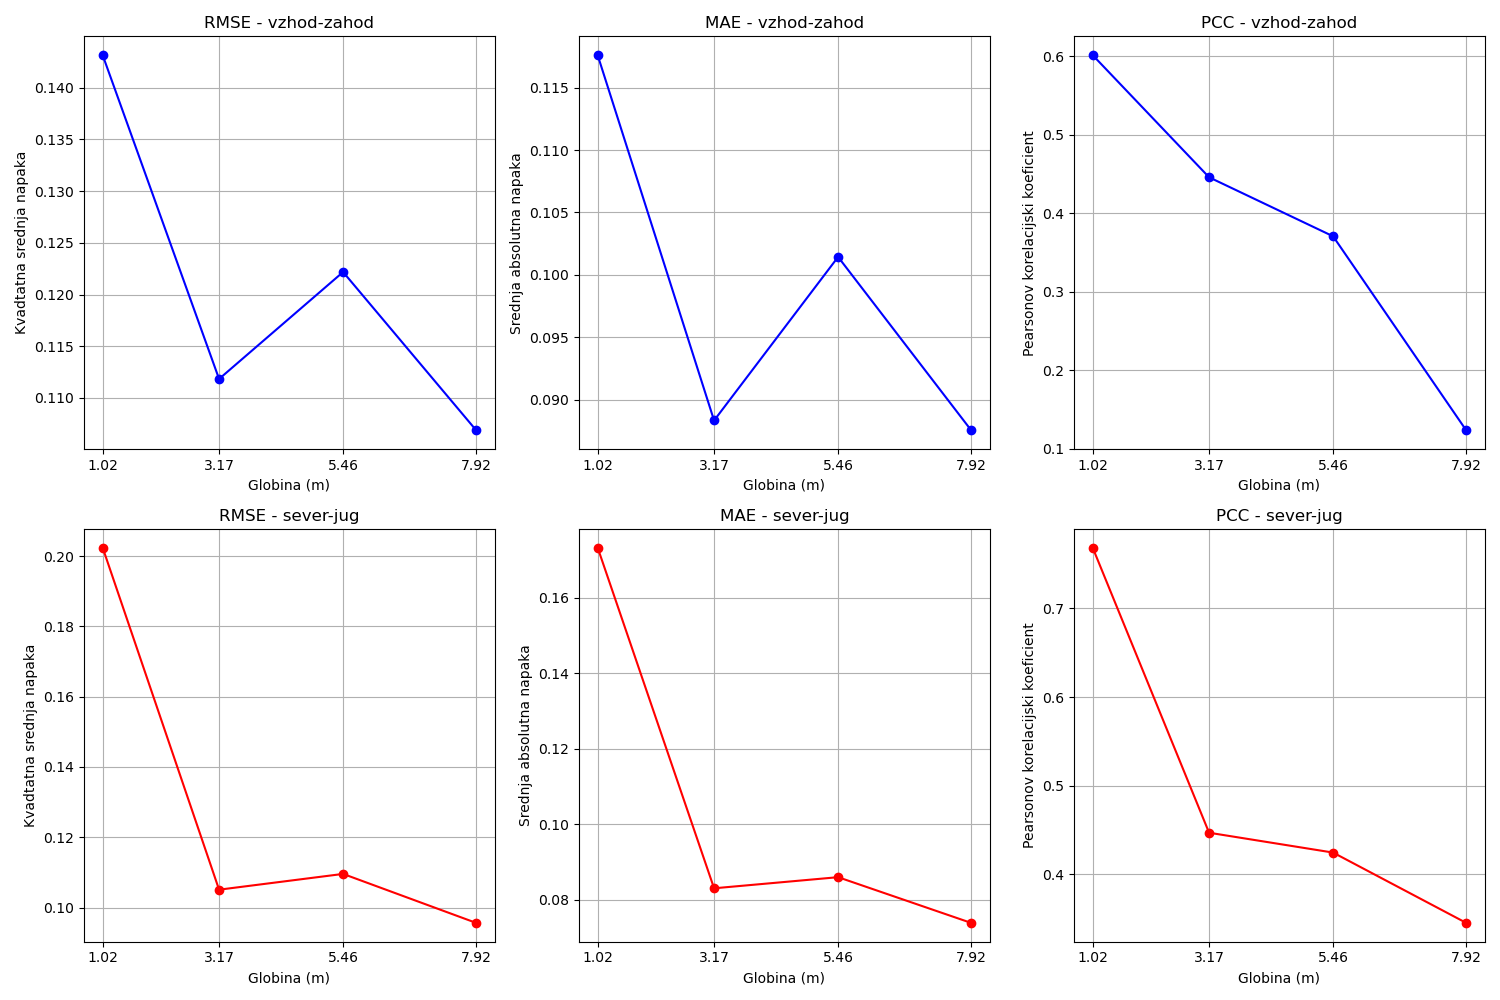
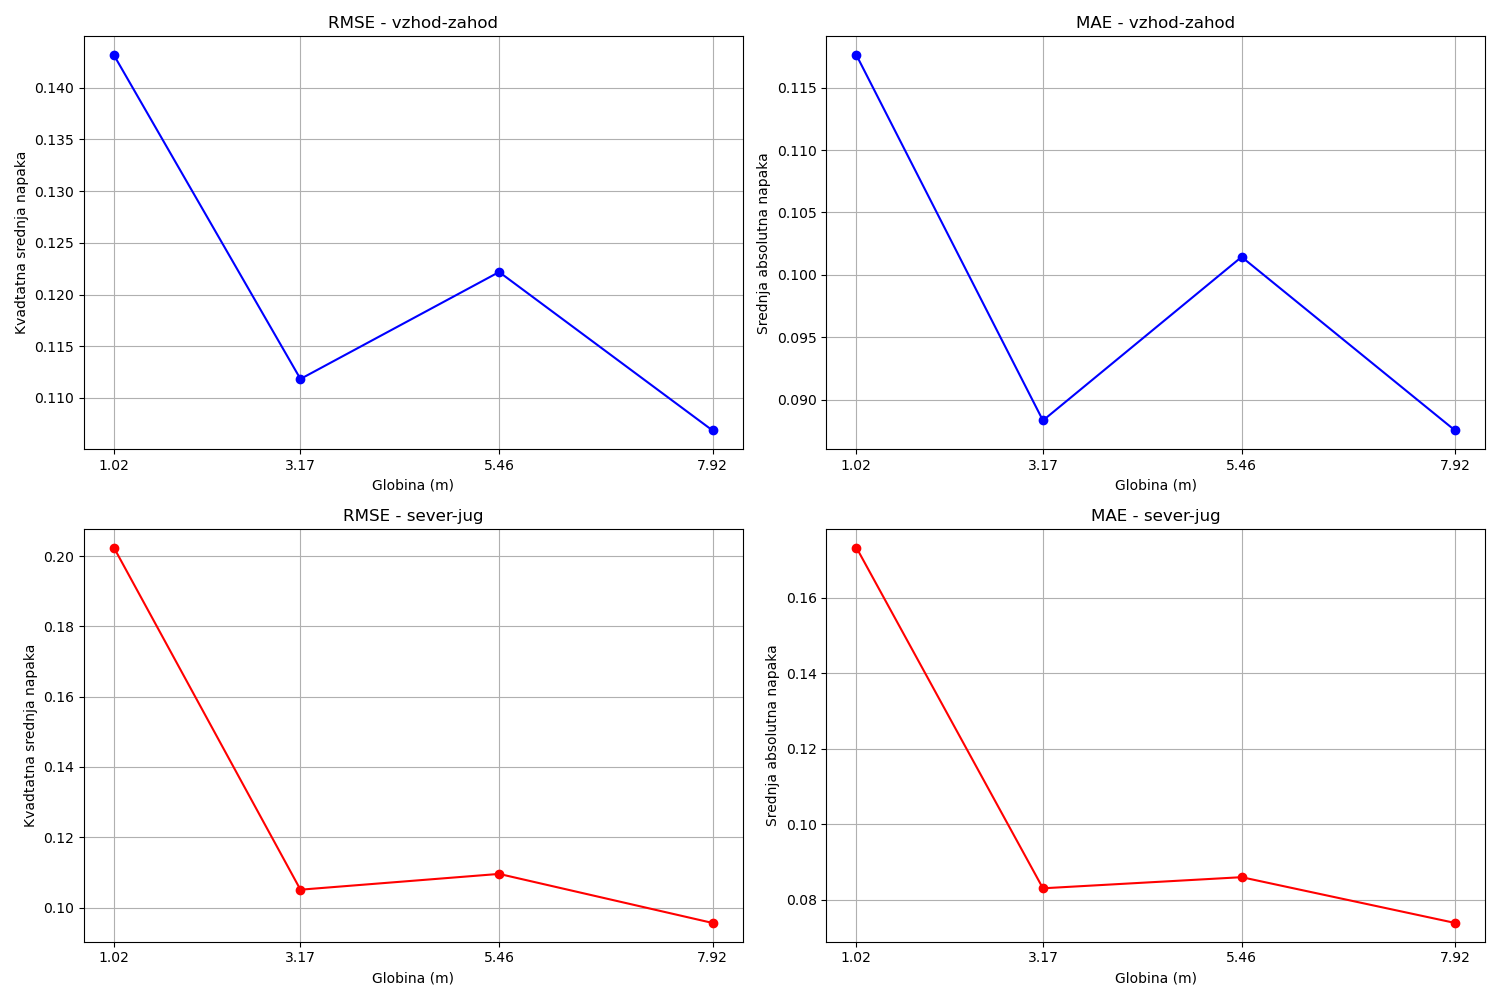
modeling currents

diff --git a/analysis/model_prediction.py b/analysis/model_prediction.py
@@ -1,0 +1,251 @@
+import numpy as np
+import matplotlib.pyplot as plt
+from po_flow_rate_data.Pontelagoscuro_Flow_Data_2023 import po_flow
+from wind_data.wind_data import wind
+from sklearn.model_selection import train_test_split
+from sklearn.ensemble import RandomForestRegressor
+from sklearn.linear_model import Ridge
+from sklearn.linear_model import LinearRegression
+from sklearn.svm import SVR
+from sklearn.metrics import mean_absolute_error, mean_squared_error
+
+
+# Load the uo, vo, v1 and v2 values
+uo = np.load('./created_data/uo.npy', allow_pickle=True)
+v1 = np.load('./created_data/v1.npy', allow_pickle=True)
+vo = np.load('./created_data/vo.npy', allow_pickle=True)
+v2 = np.load('./created_data/v2.npy', allow_pickle=True)
+
+# Function to calculate daily averages of wind speed and wind direction
+def daily_average_wind(data):
+    daily_averages = []
+    data = data[13:] # Skip the first 13 indices because data starts with 'date': '2023-07-19', 'time': '11:00:10'
+    # Handle subsequent days (24 measurements each)
+    for i in range(0, len(data), 24):
+        day_data = data[i:i+24]
+        if day_data:
+            valid_wind_speeds = [day['wind_speed'] for day in day_data if day['wind_speed'] is not None]
+            valid_wind_dirs = [day['wind_dir'] for day in day_data if day['wind_dir'] is not None]
+            if valid_wind_speeds and valid_wind_dirs:
+                wind_speed_avg = sum(valid_wind_speeds) / len(valid_wind_speeds)
+                wind_dir_avg = sum(valid_wind_dirs) / len(valid_wind_dirs)
+            else:
+                wind_speed_avg = None
+                wind_dir_avg = None
+            daily_averages.append({
+                'date': day_data[0]['date'],
+                'wind_speed': wind_speed_avg,
+                'wind_dir': wind_dir_avg
+            })
+    return daily_averages
+
+# Calculate daily averages of wind speed and wind direction
+daily_wind_averages = daily_average_wind(wind)
+
+
+# Define the depths to consider
+depths = [1.02, 3.17, 5.46, 7.92]
+
+# Extract dates and velocities from v1, v2, uo, and vo (starting from July 20th, 2023)
+dates = v1[2:-46, 0]  # Adjusted index to start from July 20th and end with Sep 23th
+velocities_uo = uo[2:-46]
+velocities_vo = vo[2:-46]
+velocities_v1 = v1[2:-46, 1:]
+velocities_v2 = v2[2:-46, 1:]
+
+# Prepare daily current data
+daily_currents = []
+
+# Loop through each day and depth to calculate the current speed and direction
+for day in range(len(dates)):
+    daily_data = {'date': dates[day]}
+    for i, depth in enumerate(depths):
+        # Calculate AWAC vector and magnitude
+        awac_vector = [velocities_uo[day][i], velocities_vo[day][i]]
+        awac_magnitude = np.sqrt(awac_vector[0]**2 + awac_vector[1]**2)
+        awac_direction = np.degrees(np.arctan2(awac_vector[1], awac_vector[0]))
+        
+        # Calculate model vector and magnitude
+        # Adjusted to handle the structure of velocities_v1 and velocities_v2
+        model_vector = [velocities_v1[day][0][i], velocities_v2[day][0][i]]
+        model_magnitude = np.sqrt(model_vector[0]**2 + model_vector[1]**2)
+        model_direction = np.degrees(np.arctan2(model_vector[1], model_vector[0]))
+        
+        # Store the results
+        daily_data[f'awac_speed_{depth}'] = awac_magnitude
+        daily_data[f'awac_dir_{depth}'] = awac_direction
+        daily_data[f'model_speed_{depth}'] = model_magnitude
+        daily_data[f'model_dir_{depth}'] = model_direction
+    
+    daily_currents.append(daily_data)
+
+# # Print the daily currents
+# for daily_data in daily_currents:
+#     print(daily_data)
+
+# Function to calculate cosine similarity between two sets of vectors
+def calculate_cosine_similarity(y_true_vectors, y_pred_vectors):
+    cos_similarities = []
+    for true_vec, pred_vec in zip(y_true_vectors, y_pred_vectors):
+        dot_product = np.dot(true_vec, pred_vec)
+        magnitude_true = np.linalg.norm(true_vec)
+        magnitude_pred = np.linalg.norm(pred_vec)
+        cos_sim = dot_product / (magnitude_true * magnitude_pred)
+        cos_similarities.append(cos_sim)
+    return cos_similarities
+
+# Define the input and output data for the models
+models = {}
+
+# Initialize a list to store cosine similarities for each depth and day
+cosine_similarities = {depth: [] for depth in depths}
+
+# Loop through each depth to create models
+for depth in depths:
+    # Prepare the data with AWAC data only
+    X_awac = []
+    y_awac = []
+    for i, daily_data in enumerate(daily_currents):
+        X_awac.append([
+            po_flow[i+1]['flow'],
+            daily_wind_averages[i]['wind_speed'],
+            daily_wind_averages[i]['wind_dir'],
+            # daily_data[f'awac_dir_{depth}'],
+            # daily_data[f'awac_speed_{depth}']
+        ])
+        y_awac.append([
+            daily_data[f'awac_speed_{depth}'],
+            daily_data[f'awac_dir_{depth}']
+        ])
+    
+    # Split the data into training and testing sets
+    X_train_awac, X_test_awac, y_train_awac, y_test_awac = train_test_split(X_awac, y_awac, test_size=0.2, random_state=42)
+    
+    # Train the model
+    model_awac = LinearRegression()
+    model_awac.fit(X_train_awac, y_train_awac)
+    
+    # Store the model
+    models[f'model_awac_{depth}'] = model_awac
+    
+    # Prepare the data with both AWAC and model data
+    X_awac_model = []
+    y_awac_model = []
+    for i, daily_data in enumerate(daily_currents):
+        X_awac_model.append([
+            po_flow[i+1]['flow'],
+            daily_wind_averages[i]['wind_speed'],
+            daily_wind_averages[i]['wind_dir'],
+            # daily_data[f'awac_dir_{depth}'],
+            # daily_data[f'awac_speed_{depth}'],
+            daily_data[f'model_dir_{depth}'],
+            daily_data[f'model_speed_{depth}']
+        ])
+        y_awac_model.append([
+            daily_data[f'awac_speed_{depth}'],
+            daily_data[f'awac_dir_{depth}']
+        ])
+
+    # Split the data into training and testing sets
+    X_train_awac_model, X_test_awac_model, y_train_awac_model, y_test_awac_model = train_test_split(X_awac_model, y_awac_model, test_size=0.2, random_state=42)
+    
+    # Train the model
+    model_awac_model = LinearRegression()
+    model_awac_model.fit(X_train_awac_model, y_train_awac_model)
+    
+    # Store the model
+    models[f'model_awac_model_{depth}'] = model_awac_model
+
+# Evaluate the models
+for depth in depths:
+    # Evaluate AWAC model
+    y_pred_awac = models[f'model_awac_{depth}'].predict(X_test_awac)
+    
+    # Convert predictions and true values to vectors
+    y_pred_awac_vectors = [
+        [
+            pred[0] * np.cos(np.radians(pred[1])),  # e-w component
+            pred[0] * np.sin(np.radians(pred[1]))   # n-s component
+        ] for pred in y_pred_awac
+    ]
+    
+    y_test_awac_vectors = [
+        [
+            true[0] * np.cos(np.radians(true[1])),  # e-w component
+            true[0] * np.sin(np.radians(true[1]))   # n-s component
+        ] for true in y_test_awac
+    ]
+    
+    # Calculate MAE on vector components
+    mae_awac = mean_absolute_error(y_test_awac_vectors, y_pred_awac_vectors)
+    rmse_awac = np.sqrt(mean_squared_error(y_test_awac_vectors, y_pred_awac_vectors))
+    print(f"Depth {depth} - AWAC Model - MAE: {mae_awac}, MSE: {rmse_awac}")
+    
+    # Evaluate AWAC + Model data model
+    y_pred_awac_model = models[f'model_awac_model_{depth}'].predict(X_test_awac_model)
+    
+    # Convert predictions and true values to vectors
+    y_pred_awac_model_vectors = [
+        [
+            pred[0] * np.cos(np.radians(pred[1])),  # e-w component
+            pred[0] * np.sin(np.radians(pred[1]))   # n-s component
+        ] for pred in y_pred_awac_model
+    ]
+    
+    y_test_awac_model_vectors = [
+        [
+            true[0] * np.cos(np.radians(true[1])),  # e-w component
+            true[0] * np.sin(np.radians(true[1]))   # n-s component
+        ] for true in y_test_awac_model
+    ]
+    
+    # Calculate MAE on vector components
+    mae_awac_model = mean_absolute_error(y_test_awac_model_vectors, y_pred_awac_model_vectors)
+    rmse_awac_model = np.sqrt(mean_squared_error(y_test_awac_model_vectors, y_pred_awac_model_vectors))
+    print(f"Depth {depth} - AWAC + Model Data Model - MAE: {mae_awac_model}, RMSE: {rmse_awac_model}")
+
+     # For each day (x), calculate cosine similarity for predicted vs test data
+    cos_sim = calculate_cosine_similarity(y_test_awac_vectors, y_pred_awac_vectors)
+
+    for day, similarity in enumerate(cos_sim):
+        cosine_similarities[depth].append({
+            'date': dates[day],
+            'cosine_similarity': similarity,
+        })
+
+
+# Plot cosine similarities
+plt.figure(figsize=(15, 10))
+for i, depth in enumerate(depths):
+    plt.subplot(2, 2, i+1)
+    cos_sims = [sim['cosine_similarity'] for sim in cosine_similarities[depth]]
+    plt.plot(range(len(cos_sims)), cos_sims, marker='o')
+    plt.title(f'Globina {depth}m')
+    plt.ylabel('Kosinusna podobnost')
+    plt.ylim(-1.25, 1.25)  # Set y-axis range to -1 to 1
+    plt.grid(True)
+plt.tight_layout()
+plt.savefig('./graphs/cosine_similarities_predicted.png')
+plt.show()
+
+# # Naložimo podatke
+# df = pd.read_csv("tvoji_podatki.csv")  # prilagodi ime datoteke
+
+# # Definiramo vhodne in izhodne spremenljivke
+# X = df[['flow', 'wind_speed', 'wind_dir']]
+# y = df[['current_speed', 'current_dir']]  # Napovedujemo hitrost in smer toka
+
+# # Razdelimo na trenirni in testni del
+# X_train, X_test, y_train, y_test = train_test_split(X, y, test_size=0.2, random_state=42)
+
+# # Izberemo preprost Random Forest model
+# model = RandomForestRegressor(n_estimators=100, random_state=42)
+# model.fit(X_train, y_train)
+
+# # Napovedi
+# y_pred = model.predict(X_test)
+
+# # Ocenimo model
+# mae = mean_absolute_error(y_test, y_pred)
+# mse = mean_squared_error(y_test, y_pred)
+# print(f"MAE: {mae}, MSE: {mse}")

diff --git a/analysis/analysis.py b/analysis/analysis.py
@@ -125,7 +125,7 @@ plt.savefig('./graphs/east_west_absolute_errors.png')
 plt.figure(figsize=(15, 10))
 for i, depth in enumerate(depths_to_plot):
     plt.subplot(2, 2, i + 1)
-    plt.plot(range(len(mae_n[i])), mae_n[i], color="red", marker="s", markersize=4, linewidth=1)
+    plt.plot(range(len(mae_n[i])), mae_n[i], color="blue", marker="s", markersize=4, linewidth=1)
     plt.title(f"Globina {depth}m")
     plt.xlabel("Datum")
     plt.ylabel("Absolutna napaka")
@@ -164,12 +164,11 @@ for depth, corr in zip(depths_to_plot, correlation_values_north_south):
     print(f"Depth {depth}m: {corr:.4f}")
 
 # Create figure with 6 subplots
-fig, axs = plt.subplots(2, 3, figsize=(15, 10))
+fig, axs = plt.subplots(2, 2, figsize=(15, 10))
 
 metrics = [
     (rmse_values_east_west, rmse_values_north_south, 'RMSE', 'Kvadtatna srednja napaka'),
     (mae_values_east_west, mae_values_north_south, 'MAE', 'Srednja absolutna napaka'),
-    (correlation_values_east_west, correlation_values_north_south, 'PCC', 'Pearsonov korelacijski koeficient')
 ]
 
 # Visualise RMSE, MAE and PCC

diff --git a/analysis/README.md b/analysis/README.md
@@ -36,7 +36,9 @@ This project is focused on analyzing and visualizing ocean current data, includi
 
 - **`vector_similarity.py`**  
   The second main script for data analysis, focused on vector similarity between measured and modeled data. It uses cosine similarity and euclidean distance to compare the vectors, as well as correlation between Po flow rate and vector similarities.
- 
+
+- **`model_prediction.py`**  
+  This script is responsible for predicting ocean current data using machine learning models. 
 
 ## How to Use
 1. **Prepare the Data:**  
@@ -54,6 +56,7 @@ This project is focused on analyzing and visualizing ocean current data, includi
   - `numpy`
   - `pandas`
   - `matplotlib`
+  - `scikit-learn`
 
 ## Key Metrics Explained
 - **Root Mean Square Error (RMSE):** Measures the average magnitude of the error between the model and measured data. Lower values indicate better agreement.  
